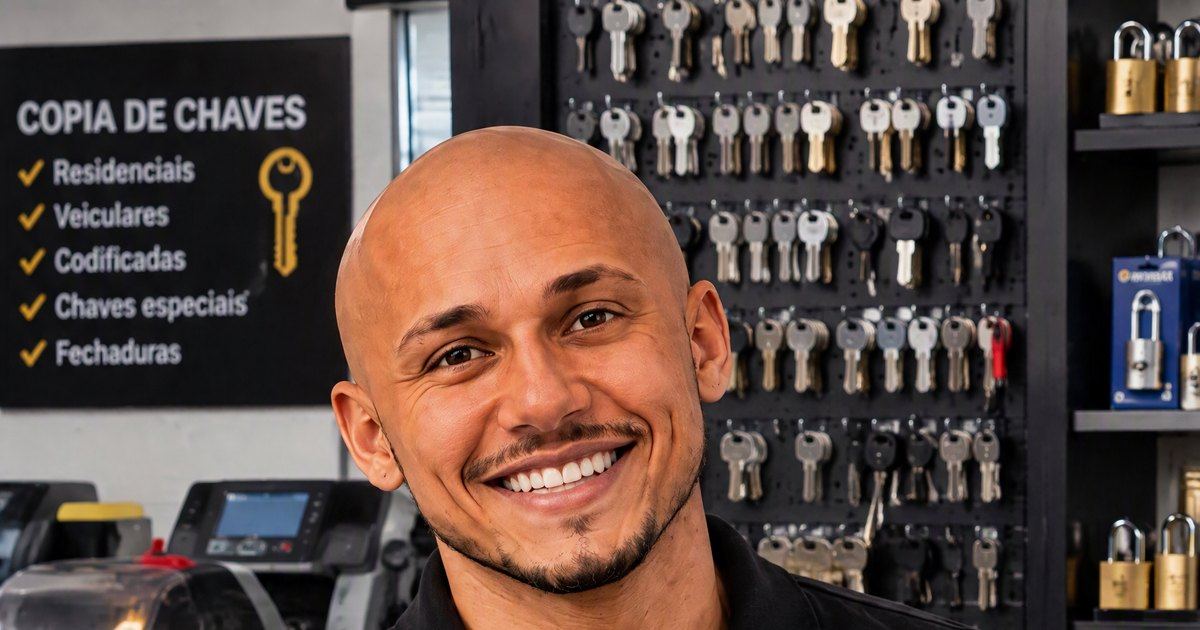
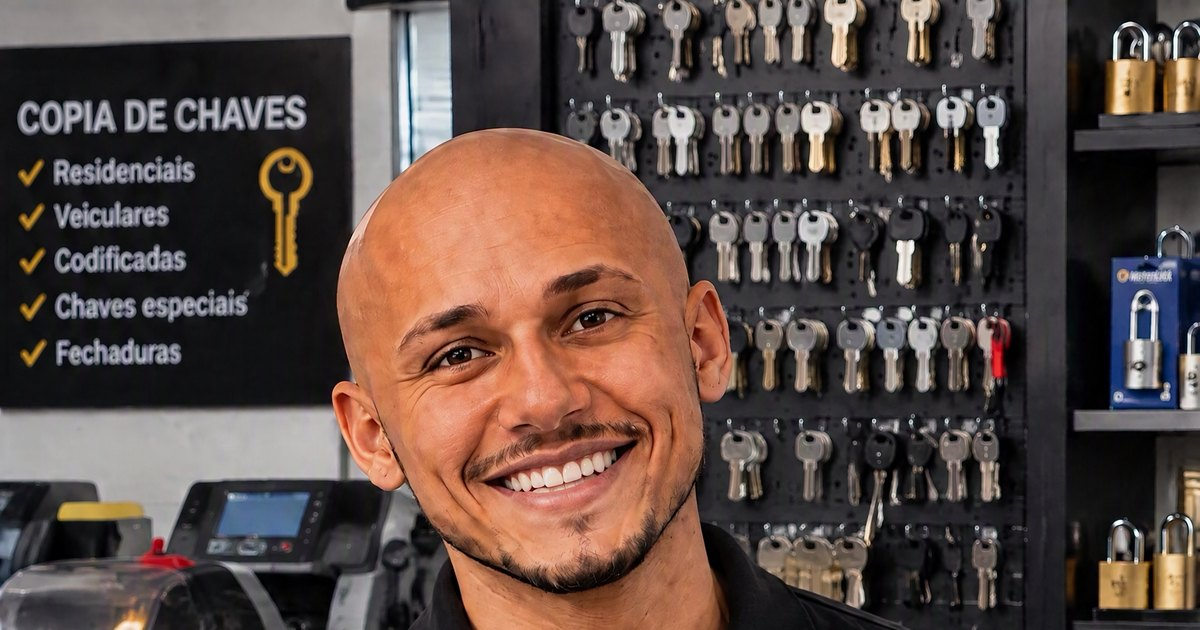
feat: fotos nos servicos e foto nova do Gleiton
As seis imagens de servico entram nos cards, e a foto do Gleiton na loja
e substituida por uma versao mais natural.

Imagens

- Seis fotos de servico, geradas por IA na mesma direcao de arte: ambiente
  noturno, grafite com azul eletrico, sem rosto de pessoa
- Foto nova do Gleiton na secao "quem vai bater na sua porta"
- Card de compartilhamento do WhatsApp regerado com a foto nova

Os originais somavam 49 MB em PNG. Depois de redimensionar para o tamanho
que a tela realmente usa e converter para WebP, o conjunto inteiro ficou em
749 kB — e cada pagina carrega so o que precisa. Os arquivos originais ficam
em _material/imagens-geradas, fora do Git: 50 MB num repositorio ficam la
para sempre, mesmo depois de apagados.

preparar-imagens.cjs agora encontra a origem por nome, seja qual for a
extensao com que ela foi salva, e pula o que ainda nao existe.

Correcoes

- Icone de reserva do card aparecia como fantasma atraves da foto. A causa
  era opacity 0.88 na imagem: opacidade deixa ver o que esta atras, por mais
  alto que seja o z-index, que controla ordem e nao visibilidade. A foto
  passou a ser opaca e o escurecimento virou um veu por cima dela
- Imagens dos cards agora declaram width e height, para o navegador reservar
  o espaco antes de a foto chegar
- Menu: "Onde atendo" virou "Atendimentos", e os links passaram a comecar
  com barra — o mesmo cabecalho aparece nas paginas de servico, onde aquelas
  ancoras nao existem e o clique nao levava a lugar nenhum
[…]

diff --git a/_material/prompts-imagens.md b/_material/prompts-imagens.md
@@ -1,128 +1,135 @@
 # Prompts das imagens do site — Careca Chaves
 
-Gere em **inglês** (os modelos entendem muito melhor) e salve com **o nome exato** indicado.
-Depois é só jogar os arquivos em `site/public/imagens/` — o código já está esperando por eles,
-nada precisa ser alterado.
+Copie o texto do bloco, cole no gerador, escolha a proporção indicada e salve com
+o nome indicado. Depois jogue tudo em `_material/imagens-geradas/`.
 
-## Direção de arte (vale para todas)
-
-Para as imagens parecerem um conjunto e não sete fotos avulsas, todas seguem a mesma linha:
-
-- **Ambiente noturno**, iluminação baixa e dramática
-- **Paleta:** grafite escuro + azul elétrico como luz de recorte, igual ao site
-- **Fotorrealista**, com profundidade de campo rasa (fundo desfocado)
-- **Sem rosto de pessoa.** Mão trabalhando pode; rosto não — a única pessoa do site é o Gleiton, e a foto dele é real
-
-> Se o seu modelo aceitar, acrescente no fim de cada prompt:
-> `--ar 4:3` para os cards e `--ar 16:9` para o hero.
+> **Regra que vale pra todas:** se o gerador oferecer campo de "proporção" ou
+> "formato", use ele. Só escreva `--ar 4:3` no fim do prompt se o seu gerador for
+> do tipo que aceita isso (Midjourney, por exemplo).
 
 ---
 
 ## 1. Hero da página inicial
 
-**Arquivo:** `hero-porta.webp` · **Proporção:** 16:9
+**Salvar como:** `hero-porta` · **Formato: 16:9 (deitado)**
 
 ```
-Cinematic night photograph of a modern apartment front door in a dim corridor,
-a sleek matte black digital smart lock with a softly glowing blue keypad mounted
-on it, cool electric blue rim light raking across the door surface, deep graphite
-shadows, moody noir atmosphere, shallow depth of field, ultra photorealistic,
-no people, dark graphite and electric blue color grade
+Foto realista de uma porta de apartamento moderna, fechada, vista de frente.
+Na porta há uma fechadura digital preta com teclado iluminado em azul.
+Corredor escuro, iluminação baixa, luz azul fria.
+Sem pessoas. Fundo desfocado.
 ```
 
 ---
 
 ## 2. Abertura de portas
 
-**Arquivo:** `abertura-de-porta.webp` · **Proporção:** 4:3
+**Salvar como:** `abertura-de-porta` · **Formato: 4:3 (deitado)**
 
 ```
-Close-up photorealistic night photograph of a professional locksmith's hands
-using a slim precision lock pick and tension wrench on a residential door lock
-cylinder, warm focused key light against cool blue ambient darkness, dramatic
-shadows, no face visible, shallow depth of field, cinematic, dark graphite and
-electric blue grade
+Foto realista em close de duas mãos usando uma ferramenta fina de chaveiro
+dentro da fechadura de uma porta de madeira.
+Ambiente noturno, luz baixa, brilho azul ao fundo.
+Mostrar apenas as mãos e a fechadura. Sem rosto, sem corpo.
+Fundo desfocado.
 ```
 
 ---
 
 ## 3. Fechadura digital
 
-**Arquivo:** `fechadura-digital.webp` · **Proporção:** 4:3
+**Salvar como:** `fechadura-digital` · **Formato: 4:3 (deitado)**
 
 ```
-Premium product photograph of a modern matte black digital smart lock with an
-illuminated blue touch keypad installed on a dark walnut door, elegant
-directional lighting, crisp fine detail, shallow depth of field, dark cinematic
-background, ultra photorealistic
+Foto de produto realista de uma fechadura digital preta com teclado numérico
+iluminado em azul, instalada em uma porta de madeira escura.
+Close na fechadura, vista levemente de lado.
+Iluminação suave, fundo escuro e desfocado. Sem pessoas.
 ```
 
 ---
 
 ## 4. Troca de segredo
 
-**Arquivo:** `troca-de-segredo.webp` · **Proporção:** 4:3
+**Salvar como:** `troca-de-segredo` · **Formato: 4:3 (deitado)**
 
 ```
-Macro photograph of a disassembled door lock cylinder opened on a dark locksmith
-workshop bench, brass pins and springs laid out in order beside two freshly cut
-silver keys, electric blue rim lighting, moody workshop atmosphere, ultra
-photorealistic, shallow depth of field
+Foto realista em close de um cilindro de fechadura desmontado sobre uma bancada
+escura de oficina.
+Ao lado, pequenos pinos de metal e duas chaves novas prateadas.
+Luz azul vindo de lado, ambiente escuro. Sem pessoas.
+Fundo desfocado.
 ```
 
 ---
 
 ## 5. Cópia de controle e tag
 
-**Arquivo:** `copia-de-controle.webp` · **Proporção:** 4:3
+**Salvar como:** `copia-de-controle` · **Formato: 4:3 (deitado)**
 
 ```
-Photograph of several gate remote controls and RFID condominium access tags
-arranged neatly on a dark locksmith workbench, a key cutting machine softly
-blurred in the background, electric blue accent lighting, moody workshop, ultra
-photorealistic, shallow depth of field
+Foto realista de três controles remotos de portão e duas tags de condomínio
+sobre uma bancada escura de chaveiro.
+Ao fundo, desfocada, uma máquina de cópia de chaves.
+Luz azul, ambiente escuro. Sem pessoas.
 ```
 
 ---
 
 ## 6. Chaveiro automotivo
 
-**Arquivo:** `chaveiro-automotivo.webp` · **Proporção:** 4:3
+**Salvar como:** `chaveiro-automotivo` · **Formato: 4:3 (deitado)**
 
 ```
-Photograph of a modern car key fob and a transponder flip key resting on a dark
-surface beside a key programming diagnostic device with glowing display, night
-garage setting, electric blue LED lighting, ultra photorealistic, no people,
-shallow depth of field
+Foto realista em close de uma chave de carro com controle remoto e uma chave
+canivete, sobre uma superfície escura.
+Ao lado, um aparelho de programação de chaves com a tela acesa.
+Garagem à noite, luz azul. Sem pessoas. Fundo desfocado.
 ```
 
 ---
 
 ## 7. Instalação de fechadura
 
-**Arquivo:** `instalacao-fechadura.webp` · **Proporção:** 4:3
+**Salvar como:** `instalacao-fechadura` · **Formato: 4:3 (deitado)**
 
 ```
-Photograph of professional locksmith tools laid out beside a high security
-multipoint lock being installed into a door edge, organized precision tools on
-dark surface, electric blue accent light, ultra photorealistic, no face,
-shallow depth of field, cinematic
+Foto realista de ferramentas de chaveiro organizadas sobre uma superfície escura.
+Ao lado, uma fechadura de metal sendo instalada na lateral de uma porta.
+Luz azul, ambiente escuro. Sem pessoas. Fundo desfocado.
 ```
+
+---
+
+## Se a imagem vier errada
+
+O que mais costuma dar errado e como resolver:
+
+| Veio assim | Faça isso |
+|---|---|
+| Apareceu gente, rosto ou corpo inteiro | Acrescente no fim: `Sem pessoas. Apenas objetos.` |
+| Ficou colorido demais, claro ou alegre | Acrescente: `Ambiente escuro, noturno, cores frias.` |
+| Virou desenho, 3D ou ilustração | Comece o prompt com: `Fotografia real, não ilustração.` |
+| Mostrou a cena de longe demais | Acrescente: `Close, bem perto do objeto.` |
+| Ficou bonito mas sem nada a ver | Gere de novo. Modelo de imagem varia a cada tentativa — às vezes a terceira sai certa e você não mudou nada. |
+
+**Dica que vale mais que o prompt:** gere **4 variações de cada** e escolha a melhor.
+É normal descartar 3 de 4. Não insista num prompt que falhou duas vezes seguidas — mude
+uma frase e tente de novo.
 
 ---
 
 ## Depois de gerar
 
-1. Salve cada uma com o nome exato da lista (pode ser `.jpg` ou `.png` — eu converto)
-2. Jogue tudo em `_material/imagens-geradas/`
-3. Me avise que eu converto para WebP, otimizo o peso e publico
+1. Salve cada uma com o nome exato da lista (a extensão pode ser `.png` ou `.jpg`, eu converto)
+2. Coloque todas em `_material/imagens-geradas/`
+3. Me avise
 
-**Não suba as imagens direto no site.** Arquivo de IA costuma vir com 2 a 5 MB cada; sete delas
-somam mais de 20 MB e derrubam o carregamento no celular. O tratamento reduz isso para algo em
-torno de 60 kB por imagem, sem diferença visível na tela.
+**Não suba as imagens direto no site.** Arquivo de IA vem com 2 a 5 MB cada; as sete somam
+mais de 20 MB e derrubam o carregamento no celular. Eu reduzo para cerca de 60 kB cada, sem
+diferença visível na tela.
 
-## Se for gerar outras no futuro
+## Nenhuma imagem é obrigatória
 
-A logo bordada na camisa da foto do Gleiton está em **dourado**, e a identidade do site é **azul
-elétrico**. Na foto atual funciona porque aparece pequena, mas se for gerar mais material com a
-marca aplicada, peça a logo em azul para manter a coerência.
+Se alguma não sair boa, deixa pra lá e me avisa. O card daquele serviço continua funcionando
+com o ícone azul — foi desenhado pra isso. Imagem ruim atrapalha mais que ícone bonito.
